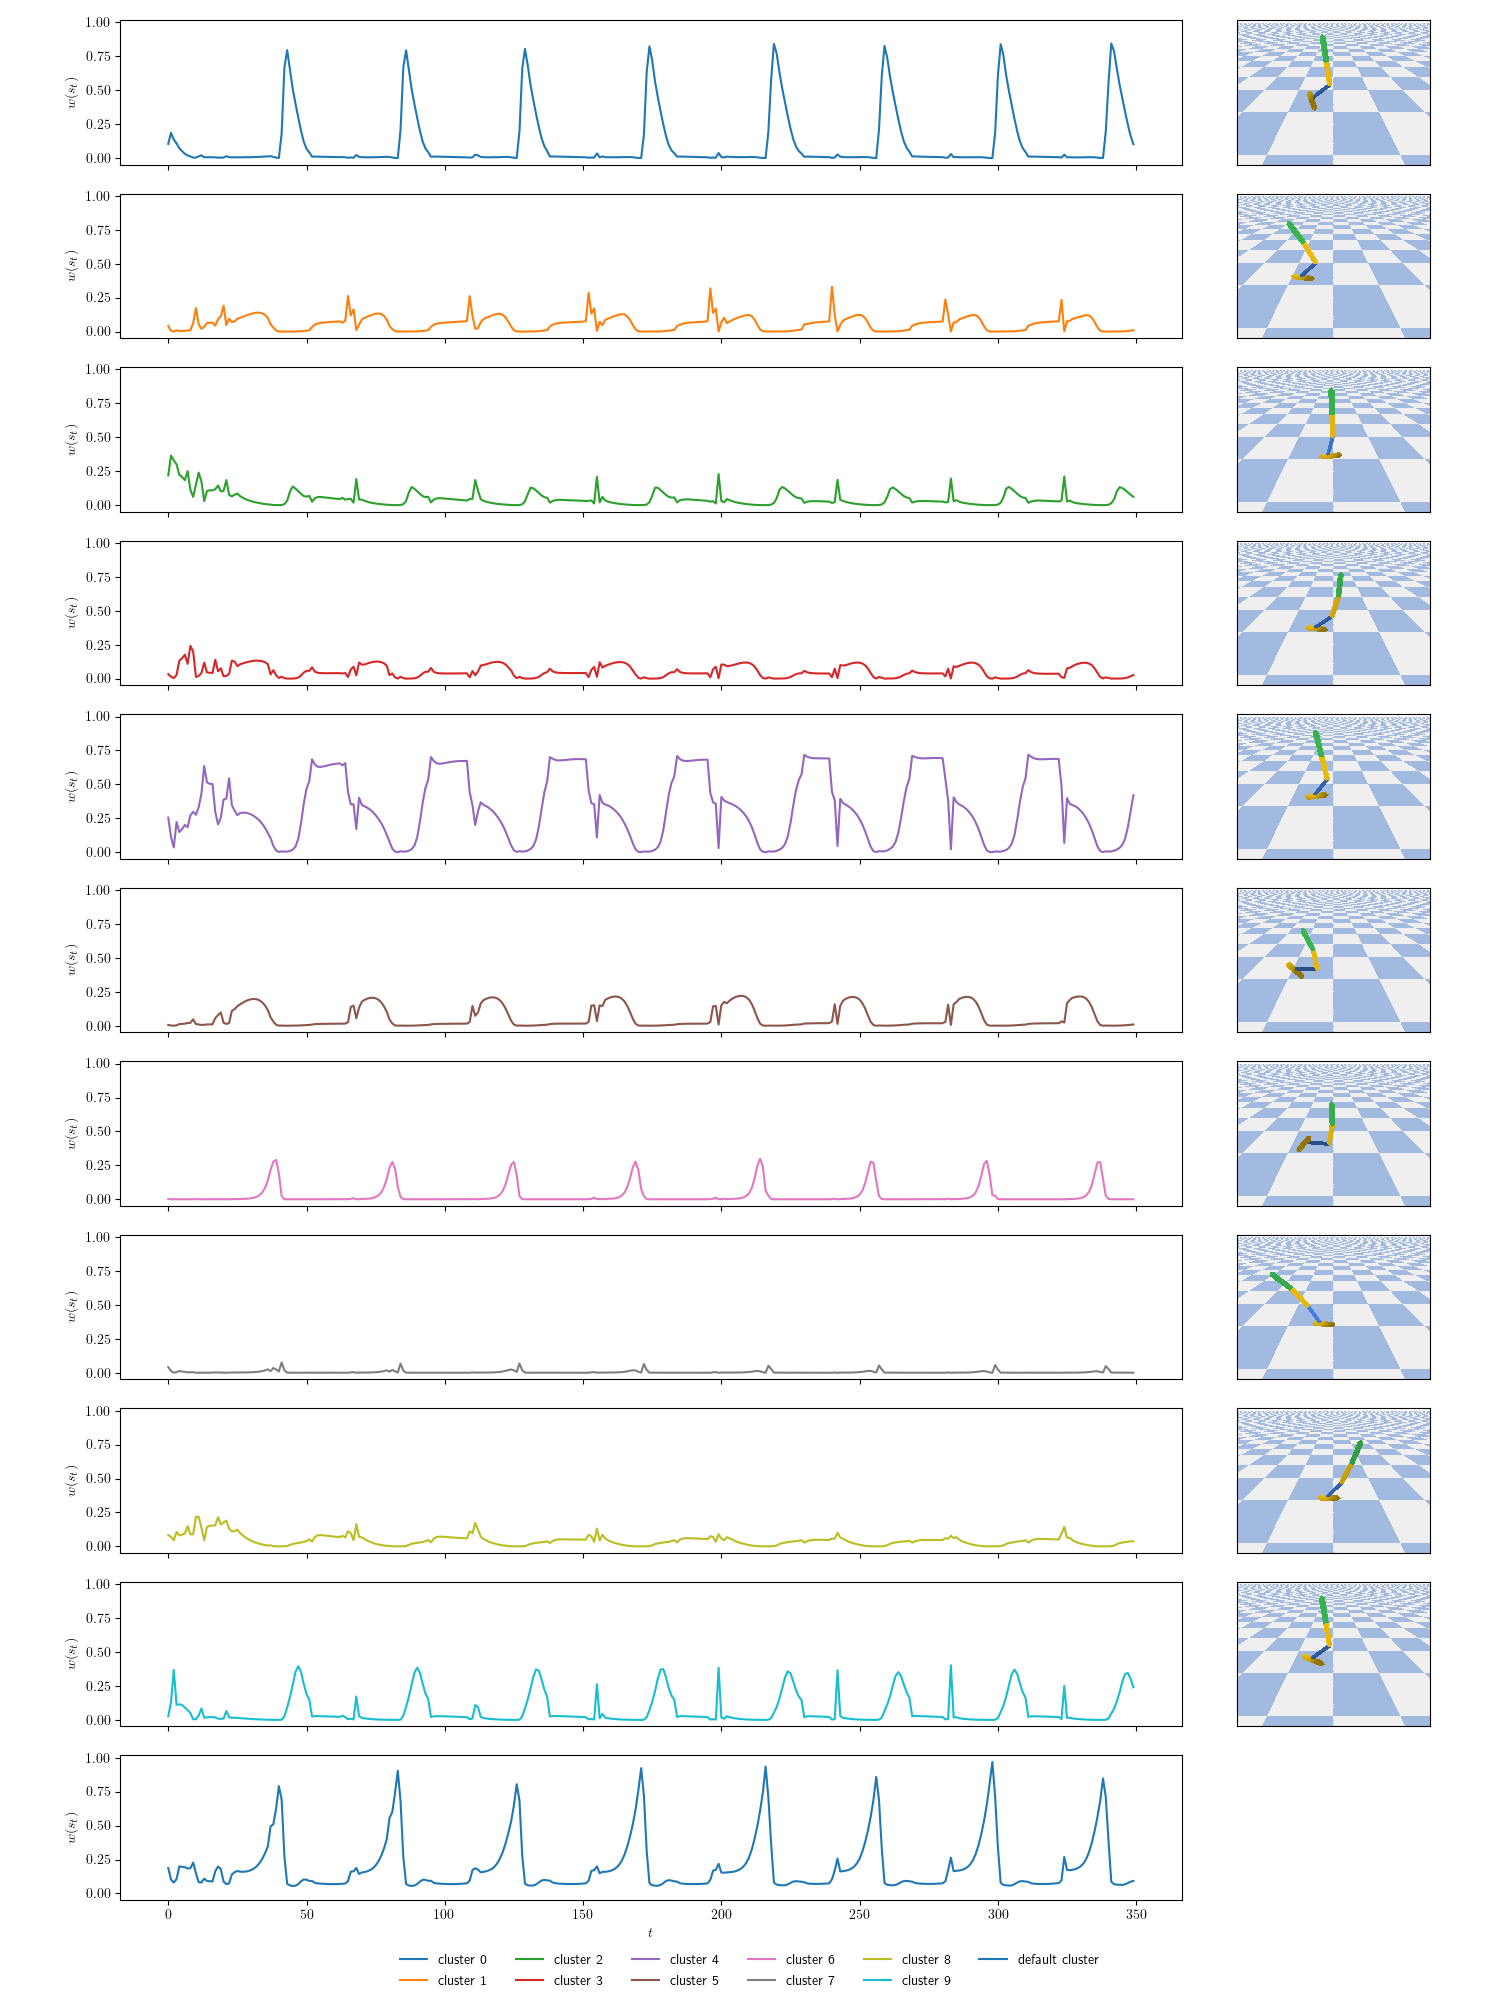
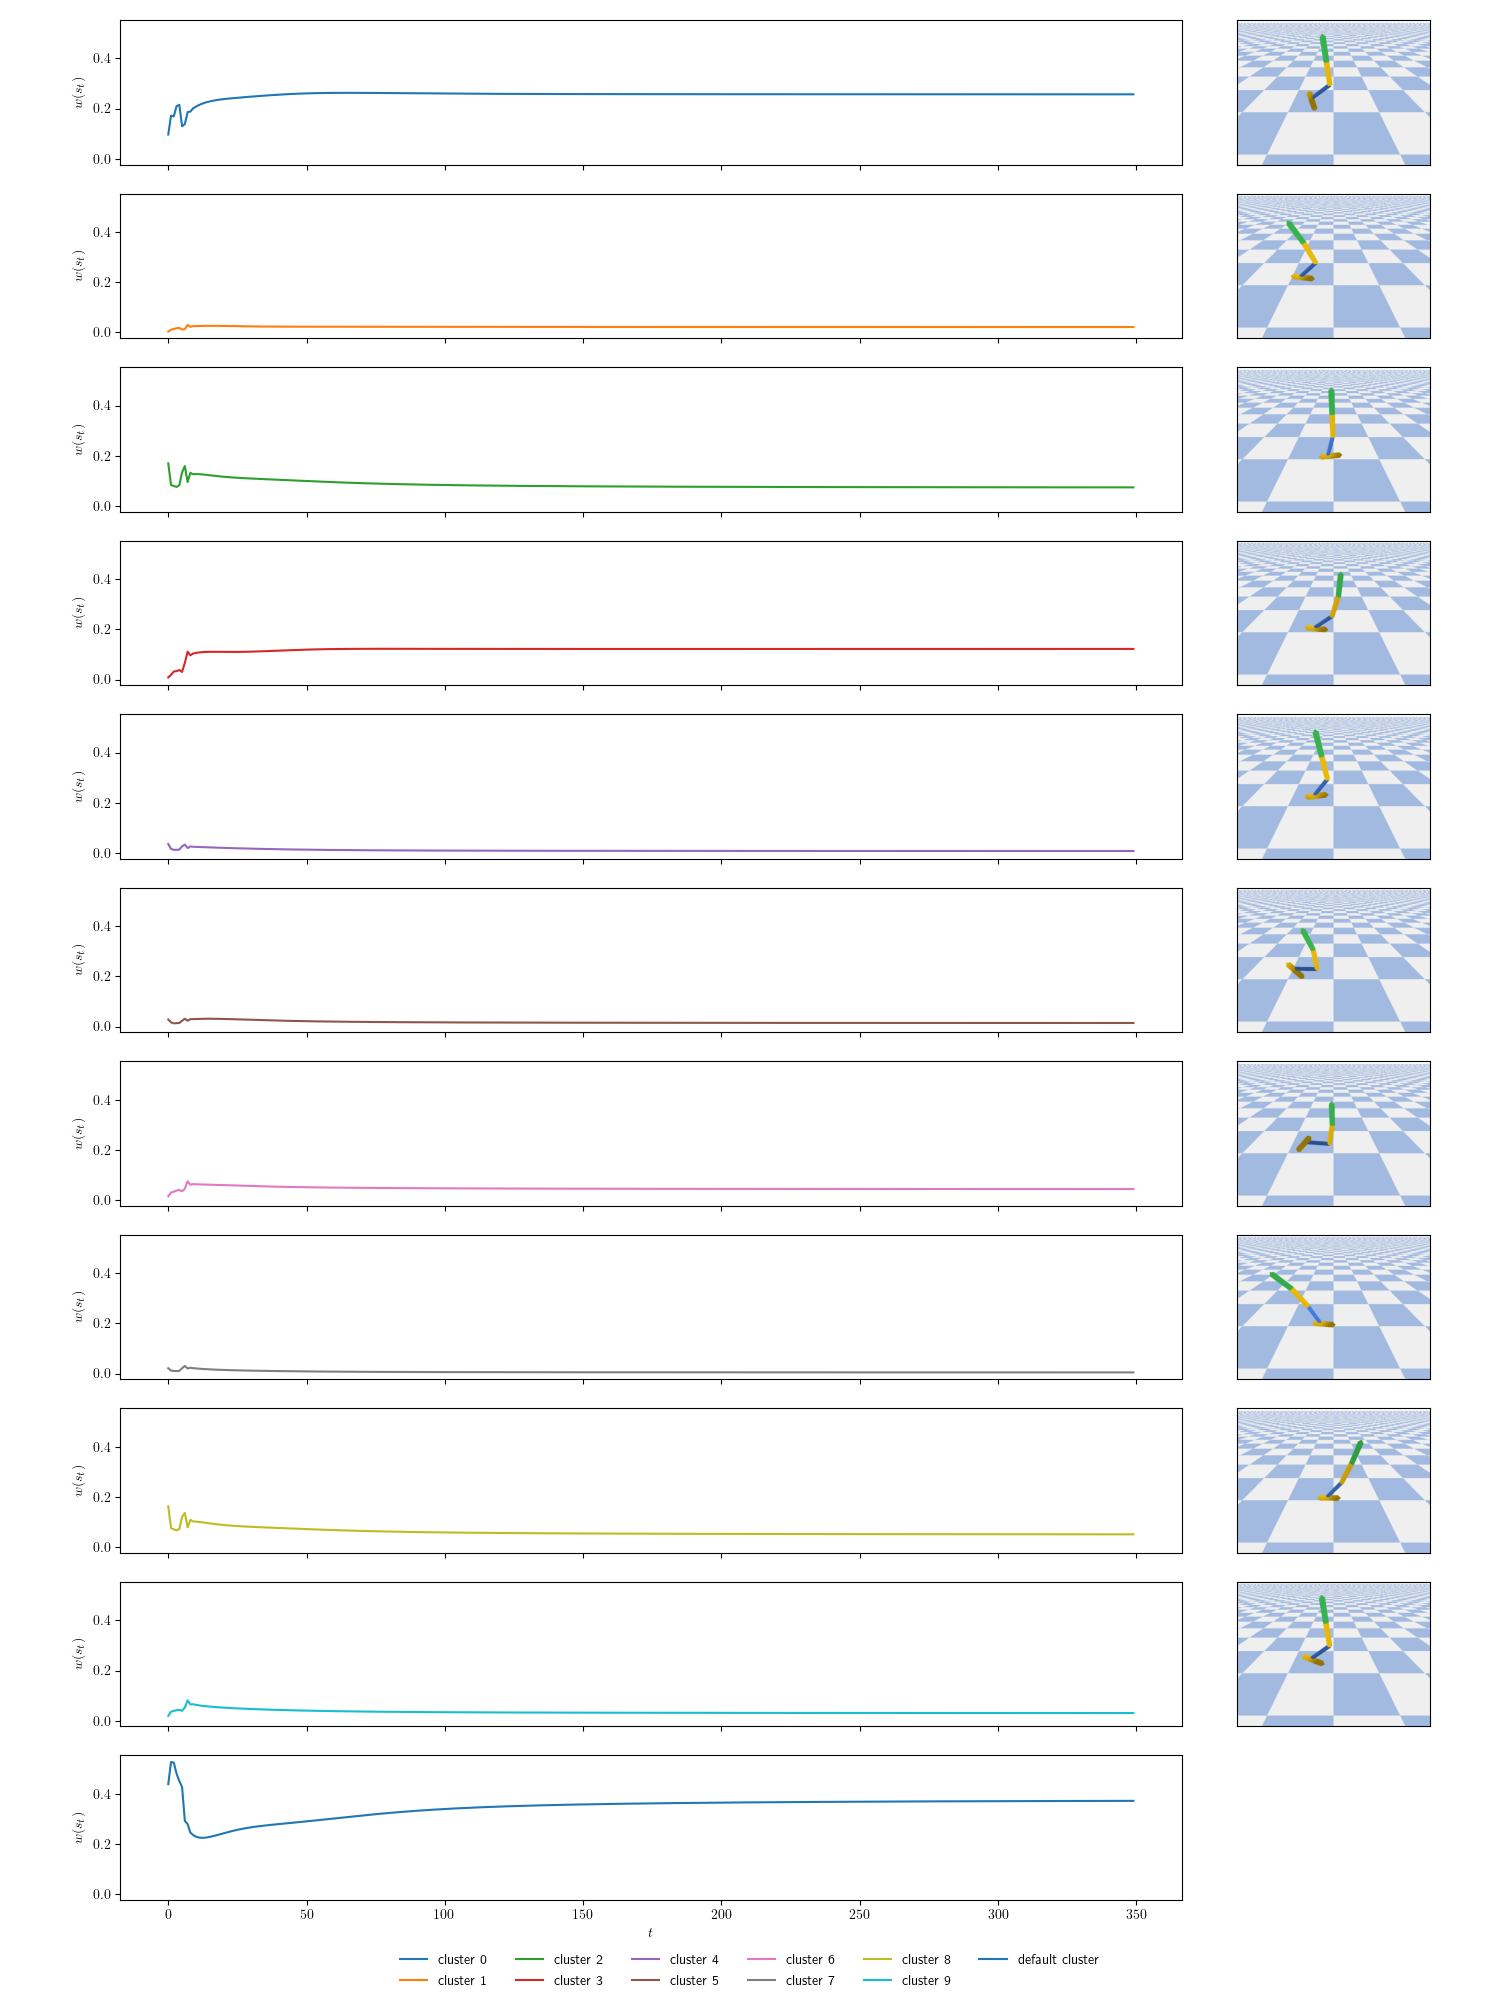
cluster visualization

diff --git a/replay.py b/replay.py
@@ -109,22 +109,23 @@ if __name__ == '__main__':
     # seed = 0
     # iteration = 1001
 
-    # env_id = 'HopperBulletEnv-v0'
+    env_id = 'HopperBulletEnv-v0'
     # log_name = 'Results/final_medium/HopperBulletEnv-v0/metricrl_c10hcovr_expdTruet1.0snone'
-    # seed = 12
-    # iteration = 1001
+    log_name = 'Results/diffproto_temp/env_id_HopperBulletEnv-v0/alg_name_PPO/nb_centers_10'
+    seed = 7
+    iteration = 1001
 
     # env_id = 'HalfCheetahBulletEnv-v0'
     # log_name = 'Results/final_medium/HalfCheetahBulletEnv-v0/metricrl_c10hcovr_expdTruet0.33snone'
     # seed = 2
     # iteration = 1001
 
-    env_id = 'Pendulum-v0'
-    # log_name = 'Results/final_small2/Pendulum-v0/metricrl_c5hcovr_expdTruet1.0snone'
-    # seed = 15
-    log_name = 'Results/final_small2/Pendulum-v0/metricrl_c10hcovr_expdTruet1.0snone'
-    seed = 3
-    iteration = 501
+    # env_id = 'Pendulum-v0'
+    # # log_name = 'Results/final_small2/Pendulum-v0/metricrl_c5hcovr_expdTruet1.0snone'
+    # # seed = 15
+    # log_name = 'Results/final_small2/Pendulum-v0/metricrl_c10hcovr_expdTruet1.0snone'
+    # seed = 3
+    # iteration = 501
 
     policy = load_policy(log_name, iteration=iteration, seed=seed)
 

diff --git a/plot_cluster_activation.py b/plot_cluster_activation.py
@@ -199,14 +199,24 @@ if __name__ == '__main__':
     # seed = 0
     # ratios = [3.5, 1]
 
+    # env_id = 'HopperBulletEnv-v0'
+    # log_name = 'Results/final_medium/HopperBulletEnv-v0/metricrl_c10hcovr_expdTruet1.0snone'
+    # n_clusters = 10
+    # # idxs = [k for k in range(n_clusters)]
+    # idxs = [0, 9, 4]
+    # plot_default = True
+    # seed = 12
+    # ratios = [3.5, 1]
+
     env_id = 'HopperBulletEnv-v0'
-    log_name = 'Results/final_medium/HopperBulletEnv-v0/metricrl_c10hcovr_expdTruet1.0snone'
+    log_name = 'Results/diffproto_temp/env_id_HopperBulletEnv-v0/alg_name_PPO/nb_centers_10'
     n_clusters = 10
-    # idxs = [k for k in range(n_clusters)]
-    idxs = [0, 9, 4]
+    idxs = [k for k in range(n_clusters)]
+    # idxs = [0, 9, 4]
     plot_default = True
-    seed = 12
+    seed = 24
     ratios = [3.5, 1]
+
 
     # env_id = 'HalfCheetahBulletEnv-v0'
     # log_name = 'Results/final_medium/HalfCheetahBulletEnv-v0/metricrl_c10hcovr_expdTruet0.33snone'

diff --git a/visualize_state.py b/visualize_state.py
@@ -99,10 +99,15 @@ if __name__ == '__main__':
     # run_id = 12
     # cluster_idxs = [0, 9, 4]
 
-    env_id = 'HalfCheetahBulletEnv-v0'
-    postfix = 'c10hcovr_expdTruet0.33snone'
-    run_id = 2
-    cluster_idxs = [4, 2, 9, 0]
+    env_id = 'HopperBulletEnv-v0'
+    postfix = 'c10hcovr_expdTruet1.0snone'
+    run_id = 12
+    cluster_idxs = [0, 9, 4]
+
+    # env_id = 'HalfCheetahBulletEnv-v0'
+    # postfix = 'c10hcovr_expdTruet0.33snone'
+    # run_id = 2
+    # cluster_idxs = [4, 2, 9, 0]
 
     log_name = os.path.join('Results', exp_id, env_id, alg_name + '_' + postfix)
     print(log_name)

diff --git a/plot_r.py b/plot_r.py
@@ -161,7 +161,8 @@ if __name__ == '__main__':
     res_folder = './Results/'
     exp_folder = os.path.join(res_folder, xp_name)
     baseline_folder = os.path.join(res_folder, 'baselines')
-    diffproto_folder = os.path.join(res_folder, 'diffproto')
+    # diffproto_folder = os.path.join(res_folder, 'diffproto')
+    diffproto_folder = os.path.join(res_folder, 'diffproto_temp')
 
     nb_runs = 25
     clus_sels = ['covr_exp']
